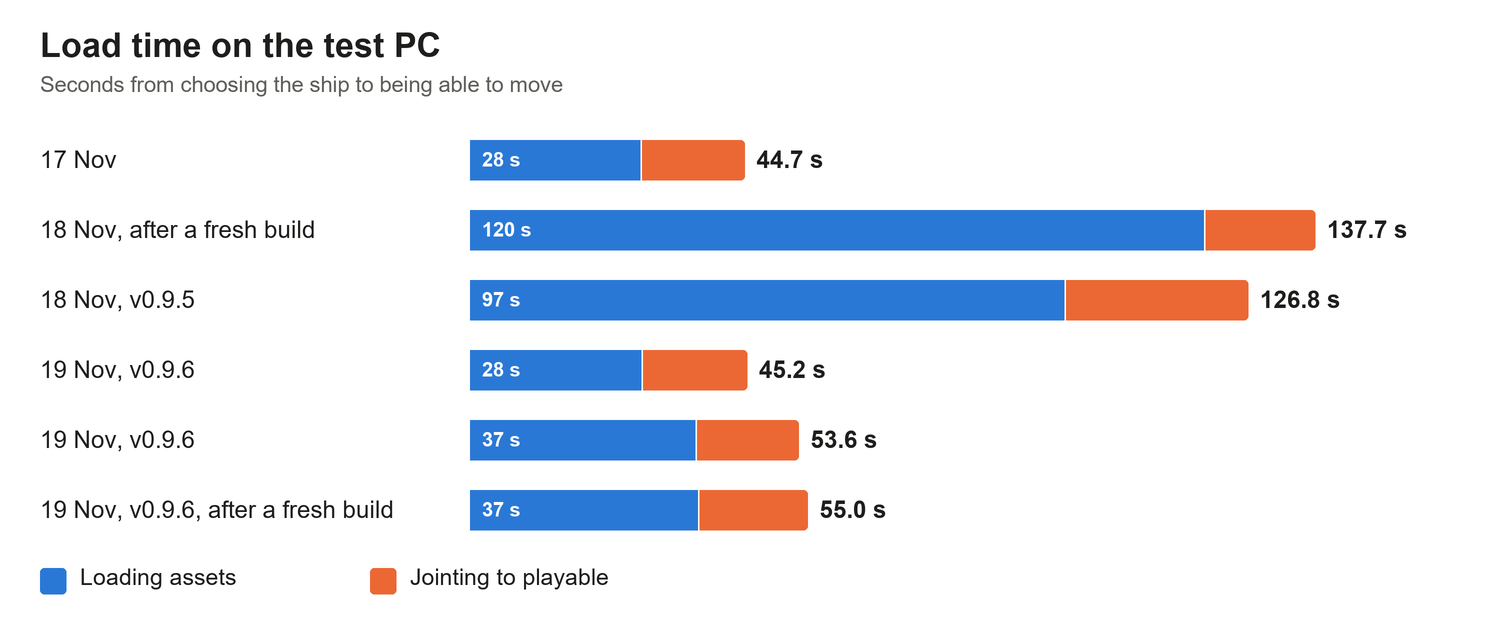
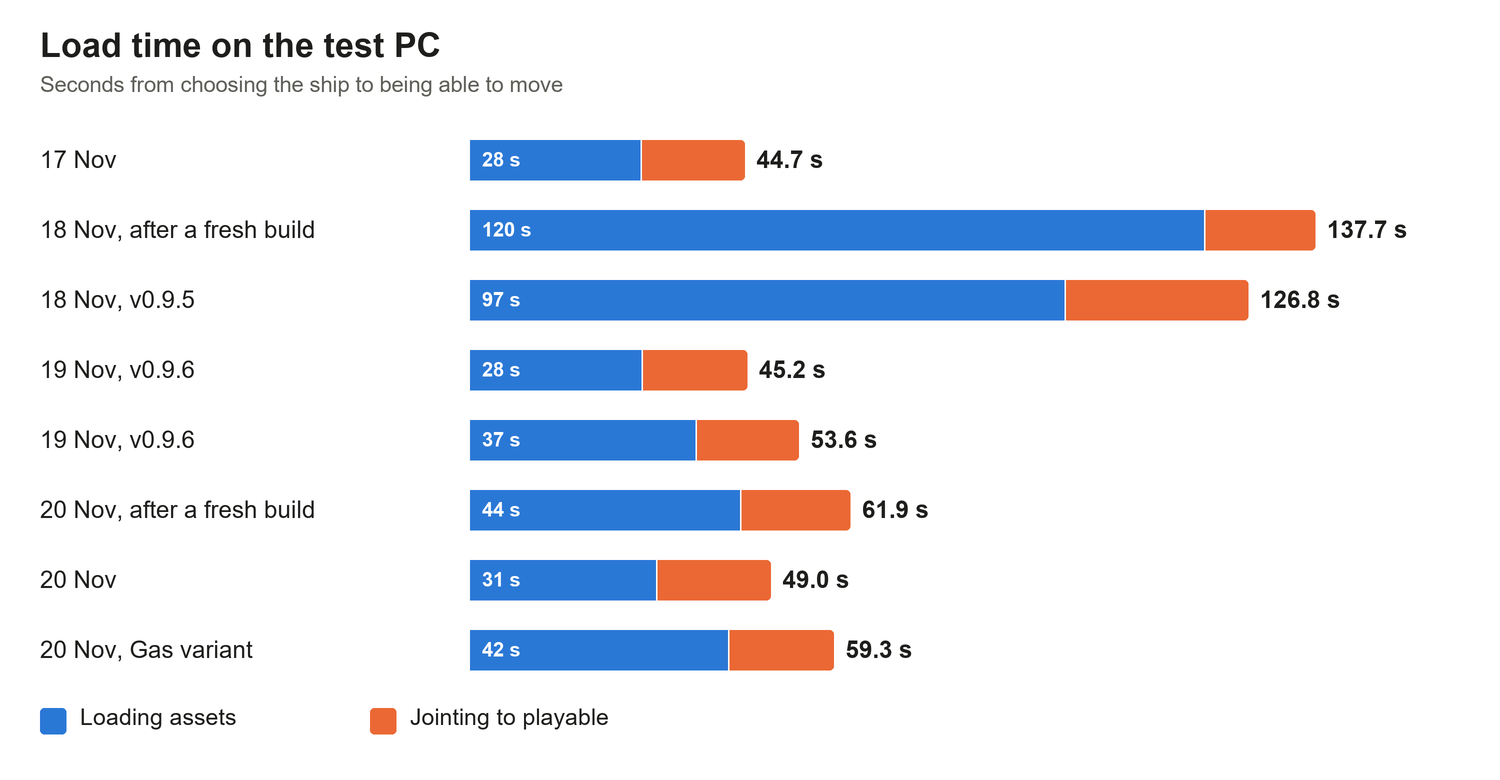
Tachi: statistics and user guide updated for the pipe and collider rework, Gas variant spawn mount
- Tachi_Ship_Statistics.md: totals from the builds of 20 Nov 2026, sections on pipe cut points / hull colliders and on the Gas livery variant, part budget and load time charts
- USER_GUIDE.md: section 13, Pipes, Cut Points and Convex Colliders
- Gas variant: inner spawn list, mount prefab and related spawn assets

diff --git a/Docs/Tachi_Ship_Statistics.md b/Docs/Tachi_Ship_Statistics.md
@@ -1,8 +1,8 @@
-# Tachi v0.9.6: Ship Statistics
+# Tachi: Ship Statistics
 
 A custom salvage ship for Hardspace: Shipbreaker, modelled on the MCRN Corvette-class light frigate *Tachi* from *The Expanse*.
 
-Figures are from the v0.9.6 build of 19 November 2026. "Measured" means taken from the game or the editor on that build. "Estimate" means calculated, with the method given.
+Figures are from the builds of 20 November 2026, which are newer than the v0.9.6 release. Where a table still shows v0.9.6 figures it says so. "Measured" means taken from the game or the editor on that build. "Estimate" means calculated, with the method given.
 
 ## At a glance
 
@@ -11,11 +11,11 @@ Figures are from the v0.9.6 build of 19 November 2026. "Measured" means taken fr
 | Length (engine bell to antenna tip) | 133.7 m |
 | Beam (port to starboard, over the gun mounts) | 54.6 m |
 | Height (dorsal to ventral) | 46.3 m |
-| Live parts at spawn | 5,339 |
+| Live parts at spawn | 5,290 (Gas livery variant: 5,876) |
 | Cut points | 237 |
 | Loose items at spawn | 184 (props, pickups and one floating corpse) |
 | Estimated mass | at least 268 t (see Mass) |
-| Download size | 180 MB (zip) |
+| Download size | 163 MB (zip, both liveries) |
 | Load time on the test PC | 45 to 138 s |
 
 ---
@@ -35,7 +35,9 @@ Measured on the test PC, from choosing the ship to being able to move:
 | 18 Nov, v0.9.5 | 126.8 s | 97.1 s | 29.7 s |
 | 19 Nov, v0.9.6 | 45.2 s | 28.2 s | 17.0 s |
 | 19 Nov, v0.9.6 | 53.6 s | 37.0 s | 16.6 s |
-| 19 Nov, v0.9.6, after a fresh build | 55.0 s | 37.5 s | 17.6 s |
+| 20 Nov, after a fresh build | 61.9 s | 44.3 s | 17.7 s |
+| 20 Nov | 49.0 s | 30.6 s | 18.4 s |
+| 20 Nov, Gas variant | 59.3 s | 42.4 s | 17.0 s |
 
 The v0.9.5 run had the mod's part-data capture switched on, which adds load time, so it overstates a normal load.
 
@@ -60,12 +62,12 @@ If the game sits on the loading screen for more than ten minutes, treat it as a 
 
 | | |
 |---|---|
-| Live parts at spawn (every piece the game simulates) | 5,339 |
-| Parts counted by the game's joint pass | 5,337 |
+| Live parts at spawn (every piece the game simulates) | 5,290 |
+| Parts counted by the game's joint pass | 5,288 |
 | Objects in the ship that never become parts | 277 (see below) |
 | Largest mesh | `PDC_Mid_Port_Nest_02`, 18,291 vertices |
 | Part ceiling at that mesh size | 7,337 |
-| Headroom | 2,000 parts |
+| Headroom | 2,049 parts |
 
 **The part ceiling.** While the ship loads, the game multiplies the number of parts by the vertex count of the largest single mesh. If that product passes 134,217,728 the game crashes on load. With the current largest mesh that allows 7,337 parts. Adding parts, or adding one mesh larger than 18,291 vertices, both use up the headroom.
 
@@ -93,6 +95,8 @@ If the game sits on the loading screen for more than ten minutes, treat it as a 
 | Hull panels | 208 | 3.9 % |
 | Structural frame | 204 | 3.8 % |
 
+The category and section tables below are from the v0.9.6 census of 19 November. The 20 November pipe rework removed a net 49 parts, all pipe pieces and pipe cut points, and has not been re-counted by category.
+
 Categories are assigned from each part's joint type and name. The rules were rewritten for v0.9.5, so these shares are not comparable with earlier versions of this document.
 
 ### Parts by section
@@ -108,11 +112,11 @@ Categories are assigned from each part's joint type and name. The rules were rew
 
 ### Loose parts
 
-Every structural part of the ship is attached. At spawn the main structure is one body of 5,155 parts, and nothing structural is separate from it.
+Every structural part of the ship is attached. At spawn the main structure is one body of 5,106 parts, and nothing structural is separate from it.
 
 | | |
 |---|---|
-| Main structure | 5,155 parts in one body |
+| Main structure | 5,106 parts in one body |
 | Loose parts | 184, in 159 separate bodies |
 | Loose single items | 149 |
 | Loose bodies of more than one part | 10 |
@@ -142,6 +146,37 @@ The loose bodies of more than one part:
 | Bowl, spoon and food set | 5 |
 | Coffee maker, pot and vending part | 3 |
 | Seven pairs of small items | 2 each |
+
+### Pipes, cut points and hull colliders
+
+Every hull part collides as the convex shape wrapped round it, not as its visible mesh. On the folded hull panels of the engineering section that left invisible collider faces across the pockets where the fuel and coolant pipes run, and put pipe cut points out of reach. The 20 November rework changed three things:
+
+| | |
+|---|---|
+| Hull parts given inside plates | 14 (11 engineering wall panels, the sealed hatch, the two mid thermal vents) |
+| Plate area added | 50 to 210 m² per part; each part's outline and collider are unchanged |
+| Pipe cut points at spawn | 80, every one jointed and none fully inside a collider |
+| Inline cut points on the coolant ring | 12 |
+| Pipe pieces loose at spawn | 0 |
+
+- **Inside plates.** Each of the 14 parts is closed along its own collider on every face except those on the outside of the ship, so what blocks the player is now visible.
+- **Cut points.** Each fuel and coolant line keeps its start on the interior wall. Its cut point sits on the last stretch of pipe that is clear of the part's collider, as close to the part as it fits, and one short piece of pipe runs on into the part.
+- **Coolant ring.** The ring runs straight through the hull panels, with inline cut points on each open stretch. The stretch under the ventral panel has no open pipe and no cut point of its own.
+
+Four cut points still reach a few centimetres into a collider (up to 13 cm) where there was less than 25 cm of open pipe.
+
+### Gas livery variant
+
+The ship can also spawn as a gas-hauler version with 24 external tanks on trusses in place of the point defence cannons. It is not part of the v0.9.6 release. Measured on 20 November:
+
+| | Standard | Gas variant |
+|---|---|---|
+| Live parts at spawn | 5,290 | 5,876 |
+| Parts counted by the joint pass | 5,288 | 5,874 |
+| Headroom under the part ceiling | 2,049 | 1,463 |
+| Main structure | 5,106 | 5,691 |
+| Loose parts | 184 in 159 bodies | 185 in 160 bodies |
+| Cut points | 237 at v0.9.6 (not re-counted) | 333 |
 
 Earlier versions of this document listed the engine nozzle, the reactor and a coolant pipe network as separate bodies. That was a counting error in the analysis, not a fault in the ship; the census now records exact joints.
 
@@ -186,7 +221,7 @@ The game works out a part's mass from its material density and the volume of its
 | B_External | Engineering hull, support ring, engine | 257 | 54.4 × 28.0 × 46.3 | 70.9 | 32 |
 | B_Internal | Aft airlock, cryogenics, fusion reactor | 552 | 28.8 × 23.1 × 21.0 | 34.6 | 14 |
 
-Sizes and masses were measured on an earlier 18 November build and not re-measured since; the changes since then (a reactor mount of 12 parts, two roof generators, spare-part pickups) do not move them noticeably. Section masses carry the same caveat as the total. The interior figure is the least complete, because it is mostly stock assemblies.
+Sizes and masses were measured on an earlier 18 November build and not re-measured since; the changes since then (a reactor mount of 12 parts, two roof generators, spare-part pickups, the inside plates) do not move them noticeably. The live-part column is from the v0.9.6 census. Section masses carry the same caveat as the total. The interior figure is the least complete, because it is mostly stock assemblies.
 
 ---
 
@@ -272,7 +307,7 @@ The lore gives performance figures for the Epstein drive in general, not for thi
 | Figure | Source |
 |---|---|
 | Load times, joint-pass part count, largest mesh, part ceiling | Logged by the PartInfoLogger mod during loading |
-| Live parts, categories, loose parts, cut points per section | The mod's spawn census from a v0.9.6 run of 19 Nov 2026, with exact joints between parts |
+| Live parts, categories, loose parts, cut points per section | The mod's spawn census: totals from runs of 20 Nov 2026, category and section breakdowns from the v0.9.6 run of 19 Nov 2026; exact joints between parts |
 | Dimensions, per-section sizes | Part bounds in the Unity editor |
 | Volume | Calculated from part bounds, as described above |
 | Mass | Calculated with the game's own formula from mesh volume and material density, plus game-reported masses for stock parts |

diff --git a/Docs/USER_GUIDE.md b/Docs/USER_GUIDE.md
@@ -53,6 +53,7 @@ This guide covers every tool in the ShipbreakerShipbuilder mod — menus, contex
 10. [Expected Unity Exceptions](#10-expected-unity-exceptions)
 11. [Career Job Board (ModdedShipLoader)](#11-career-job-board-moddedshiploader)
 12. [Ship Variants (Liveries and Variant-Only Parts)](#12-ship-variants-liveries-and-variant-only-parts)
+13. [Pipes, Cut Points and Convex Colliders](#13-pipes-cut-points-and-convex-colliders)
 
 ---
 
@@ -1485,3 +1486,32 @@ A ship can spawn as one of several versions, picked at random by weight each tim
 - A build stores each variant as a full copy of the ship prefab's objects (meshes and unchanged textures are shared), plus the variant's own textures.
 - Changing weights between starting a Career ship and continuing it can change which version is rebuilt; leave the weights alone while a shift on that ship is in progress.
 - The catalogue image and free-play thumbnail are per ship, not per variant.
+
+---
+
+## 13. Pipes, Cut Points and Convex Colliders
+
+Every custom hull part collides as the **convex hull** of its mesh, because the game needs a convex collider on anything that can become a free body. A part that is folded or wrapped round a pocket therefore has collider faces across the open side of that pocket: the player sees open space but cannot fly, grapple or cut into it, and the scanner reports the part there. Unity shows this shape as the green wireframe of the part's `MeshCollider`.
+
+Anything placed in such a pocket is inside the part's collider. A pipe cut point there cannot be reached, and a pipe that ends there looks reachable when it is not.
+
+**Rules for pipes that run from an interior wall to a hull part**
+
+1. Never move the point where a line leaves the interior wall; it has a counterpart pipe on the other side.
+2. Test every pipe end and cut point against the convex hull of each hull part nearby, not against the visible mesh.
+3. Put the cut point on the last straight stretch of pipe that is clear of the part's collider, as close to the part as it fits. Follow it with one short piece of pipe that runs on into the part.
+4. A cut point right against a junction box is redundant: the box can be cut.
+5. A long main that passes through several parts runs straight through them, with an inline cut point on each open stretch near where it enters a part.
+6. Do not leave pipe that no longer comes from a wall. A piece whose upstream connection was removed is jointed to nothing and floats away at spawn.
+
+**Closing a pocket so the collider is visible**
+
+Add thin plates to the existing part along the faces of its own convex hull, so the part reads as a closed hollow box. Because every plate lies on or inside the hull, the collider, the part's outline and its existing triangles do not change. Leave open only the hull faces on the outside of the ship. Where a hull face partly coincides with existing mesh, set the plate about 1 cm inside it so the two surfaces do not flicker.
+
+Keep the plates thin and closed (a slab, not a single sheet): the game works out a part's mass from the volume of its mesh.
+
+**Things to know.**
+- New plates lie in the same planes as neighbouring parts' faces and can change which joints the game finds. Compare the joint search before and after, then confirm with a spawn census.
+- Pipes are not held by hull panels: the pipe joint type cannot joint to an exterior panel. A hull part is released by cutting its hull joints; its pipes are released at their cut points.
+- A pipe piece of 6 cm joints like any other, but only if both its neighbours are still there.
+
